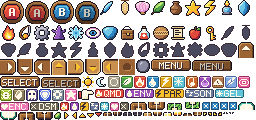
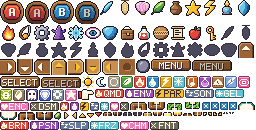
Inglês: siglas de status em inglês (BRN, PSN, PAR, SLP, FRZ, CHM, FNT)
As etiquetas -en entram no fim do atlas da interface: as peças em português
ficam com os mesmos pixels e as mesmas posições. iconeStatus escolhe pelo idioma.

Claude-Session: https://claude.ai/code/session_01SZRMGL5ucTqVdJSeQD5arp

diff --git a/tools/build-ui.ts b/tools/build-ui.ts
@@ -150,14 +150,19 @@ const larguraTxt = (gl: Glifo[], txt: string, espaco = 3) => [...txt].reduce((a,
 
 /* ------------------------------ atlas ------------------------------ */
 const pecas: { nome: string; img: Img }[] = [];
+/** peças empacotadas depois de todas as outras, em linhas novas no fim do atlas (ex.: siglas de status em inglês) */
+const pecasFim: { nome: string; img: Img }[] = [];
 const add = (nome: string, img: Img) => { if (pecas.some((p) => p.nome === nome)) erros.push('sprite duplicado: ' + nome); pecas.push({ nome, img }); };
+const addFim = (nome: string, img: Img) => { if ([...pecas, ...pecasFim].some((p) => p.nome === nome)) erros.push('sprite duplicado: ' + nome); pecasFim.push({ nome, img }); };
 function empacotar(largura = 256) {
-  const ord = [...pecas].sort((a, b) => b.img.h - a.img.h || b.img.w - a.img.w);
+  const porTamanho = (a: { img: Img }, b: { img: Img }) => b.img.h - a.img.h || b.img.w - a.img.w;
+  const principais = [...pecas].sort(porTamanho), fim = [...pecasFim].sort(porTamanho);
+  const ord = [...principais, ...fim];
   const pos: Record<string, [number, number, number, number]> = {};
   let x = 0, y = 0, hLinha = 0;
   for (const p of ord) {
     if (p.img.w > largura) erros.push(`sprite ${p.nome} mais largo que o atlas`);
-    if (x + p.img.w > largura) { x = 0; y += hLinha + 1; hLinha = 0; }
+    if (x + p.img.w > largura || (p === fim[0] && x > 0)) { x = 0; y += hLinha + 1; hLinha = 0; }
     pos[p.nome] = [x, y, p.img.w, p.img.h]; x += p.img.w + 1; hLinha = Math.max(hLinha, p.img.h);
   }
   const atlas = new Img(largura, y + hLinha);
@@ -219,11 +224,16 @@ for (const [id, s] of Object.entries(SIMBOLOS_STATUS)) {
   const simb = deGrade('status ' + id, s.linhas, cores);
   const mini = deGrade('status-mini', ['.YYYYYYY.', ...Array.from({ length: 7 }, () => 'YXXXXXXXY'), '.YYYYYYY.'], cores).colar(simb, 1, 1);
   add(`status-${id}-mini`, mini);
-  const wt = larguraTxt(f8.gl, s.sigla);
-  const et = new Img(9 + wt + 3, 9);
-  for (let y = 0; y < 9; y++) for (let x = 0; x < et.w; x++) { const canto = (x === 0 || x === et.w - 1) && (y === 0 || y === 8); if (!canto) et.set(x, y, hex(x === 0 || y === 0 || x === et.w - 1 || y === 8 ? cores.Y : cores.X)); }
-  et.colar(simb, 1, 1); escrever(et, f8.gl, s.sigla, 9, 1, hex(cores['#']));
-  add(`status-${id}`, et);
+  const etiqueta = (sigla: string) => {
+    const wt = larguraTxt(f8.gl, sigla);
+    const et = new Img(9 + wt + 3, 9);
+    for (let y = 0; y < 9; y++) for (let x = 0; x < et.w; x++) { const canto = (x === 0 || x === et.w - 1) && (y === 0 || y === 8); if (!canto) et.set(x, y, hex(x === 0 || y === 0 || x === et.w - 1 || y === 8 ? cores.Y : cores.X)); }
+    et.colar(simb, 1, 1); escrever(et, f8.gl, sigla, 9, 1, hex(cores['#']));
+    return et;
+  };
+  add(`status-${id}`, etiqueta(s.sigla));
+  // versão em inglês (docs/I18N.md): vai para o fim do atlas, sem mexer na posição das peças em português
+  if (s.siglaEn !== s.sigla) addFim(`status-${id}-en`, etiqueta(s.siglaEn));
 }
 
 // controles de toque: cada botão ganha a versão apertada (1 px mais baixa e mais escura)
@@ -302,4 +312,4 @@ if (process.argv.includes('--previa')) {
 }
 
 if (erros.length) { console.error('build-ui: ' + erros.length + ' erro(s)\n' + erros.slice(0, 60).join('\n')); process.exit(1); }
-console.log(`build-ui: ${pecas.length} sprites no atlas ${atlas.w}×${atlas.h}, ${Object.keys(f8.meta.glifos).length}+${Object.keys(f12.meta.glifos).length} glifos, ${MOLDURAS.length} molduras.`);
+console.log(`build-ui: ${pecas.length + pecasFim.length} sprites no atlas ${atlas.w}×${atlas.h}, ${Object.keys(f8.meta.glifos).length}+${Object.keys(f12.meta.glifos).length} glifos, ${MOLDURAS.length} molduras.`);

diff --git a/assets-src/ui/icones.ts b/assets-src/ui/icones.ts
@@ -32,15 +32,15 @@ export const SIMBOLOS_TIPO: Record<string, string[]> = {
   encanto: ['....##....', '....##....', '...####...', '##########', '.########.', '..######..', '..######..', '.###..###.', '.##....##.', '.#......#.'],
 };
 
-/** símbolos de status (7×7). cor = [fundo, borda, símbolo, detalhe] */
-export const SIMBOLOS_STATUS: Record<string, { sigla: string; cor: [string, string, string, string?]; linhas: string[] }> = {
-  queimado: { sigla: 'QMD', cor: ['#e0483c', '#7a1c28', '#fff8e7', '#f9c22b'], linhas: ['..#....', '..##...', '.###.#.', '.#####.', '##+###.', '#+++##.', '.###...'] },
-  envenenado: { sigla: 'ENV', cor: ['#9a4fb8', '#4a2068', '#fff8e7', '#d9f07a'], linhas: ['...#...', '..###..', '..###..', '.#####.', '.#+###.', '.#####.', '..###..'] },
-  paralisado: { sigla: 'PAR', cor: ['#f9c22b', '#8a5a10', '#3b2a35', '#3b2a35'], linhas: ['...##..', '..##...', '.##....', '#####..', '..##...', '.##....', '.#.....'] },
-  dormindo: { sigla: 'SON', cor: ['#6a7a9c', '#343e58', '#fff8e7', '#c8f0f4'], linhas: ['###....', '.#.....', '###.###', '.....#.', '....#..', '...###.', '.......'] },
-  congelado: { sigla: 'GEL', cor: ['#5fc4d8', '#1f5f76', '#fff8e7', '#fff8e7'], linhas: ['...#...', '.#.#.#.', '..###..', '#######', '..###..', '.#.#.#.', '...#...'] },
-  encantado: { sigla: 'ENC', cor: ['#f07ab8', '#8a2a5e', '#fff8e7', '#fff8e7'], linhas: ['.......', '.##.##.', '#######', '#######', '.#####.', '..###..', '...#...'] },
-  desmaiado: { sigla: 'DSM', cor: ['#6e6858', '#2e2a26', '#fff8e7', '#fff8e7'], linhas: ['.......', '#...#..', '.#.#...', '..#....', '.#.#...', '#...#..', '.......'] },
+/** símbolos de status (7×7). cor = [fundo, borda, símbolo, detalhe]; `siglaEn` = etiqueta em inglês (sprite `status-<id>-en`) */
+export const SIMBOLOS_STATUS: Record<string, { sigla: string; siglaEn: string; cor: [string, string, string, string?]; linhas: string[] }> = {
+  queimado: { sigla: 'QMD', siglaEn: 'BRN', cor: ['#e0483c', '#7a1c28', '#fff8e7', '#f9c22b'], linhas: ['..#....', '..##...', '.###.#.', '.#####.', '##+###.', '#+++##.', '.###...'] },
+  envenenado: { sigla: 'ENV', siglaEn: 'PSN', cor: ['#9a4fb8', '#4a2068', '#fff8e7', '#d9f07a'], linhas: ['...#...', '..###..', '..###..', '.#####.', '.#+###.', '.#####.', '..###..'] },
+  paralisado: { sigla: 'PAR', siglaEn: 'PAR', cor: ['#f9c22b', '#8a5a10', '#3b2a35', '#3b2a35'], linhas: ['...##..', '..##...', '.##....', '#####..', '..##...', '.##....', '.#.....'] },
+  dormindo: { sigla: 'SON', siglaEn: 'SLP', cor: ['#6a7a9c', '#343e58', '#fff8e7', '#c8f0f4'], linhas: ['###....', '.#.....', '###.###', '.....#.', '....#..', '...###.', '.......'] },
+  congelado: { sigla: 'GEL', siglaEn: 'FRZ', cor: ['#5fc4d8', '#1f5f76', '#fff8e7', '#fff8e7'], linhas: ['...#...', '.#.#.#.', '..###..', '#######', '..###..', '.#.#.#.', '...#...'] },
+  encantado: { sigla: 'ENC', siglaEn: 'CHM', cor: ['#f07ab8', '#8a2a5e', '#fff8e7', '#fff8e7'], linhas: ['.......', '.##.##.', '#######', '#######', '.#####.', '..###..', '...#...'] },
+  desmaiado: { sigla: 'DSM', siglaEn: 'FNT', cor: ['#6e6858', '#2e2a26', '#fff8e7', '#fff8e7'], linhas: ['.......', '#...#..', '.#.#...', '..#....', '.#.#...', '#...#..', '.......'] },
 };
 
 export const ARTES: Arte[] = [

diff --git a/src/ui/kit.ts b/src/ui/kit.ts
@@ -6,7 +6,7 @@ import kit from './gerado/kit.json';
 import type { Bolso, StatusId, TipoId } from '../core/tipos';
 import { precarregar } from '../core/assets';
 import { texto, em, type CorTexto, type Tamanho } from './fonte';
-import { t as traduz } from '../i18n';
+import { t as traduz, emIngles } from '../i18n';
 export { em } from './fonte';
 
 export type TipoMoldura = 'madeira' | 'cipo' | 'azulejo' | 'texto' | 'placa' | 'tinta' | 'botao' | 'botao-foco' | 'botao-ap' | 'trilho' | 'selecao' | 'bisel';
@@ -65,7 +65,11 @@ export const fatiaDe = (tipo: TipoMoldura) => MOL[tipo].fatia;
 export function cursorMao(): HTMLElement { const c = document.createElement('div'); c.className = 'cursor-mao'; c.append(spr('cursor')); return c; }
 export const seta = (dir: 'cima' | 'baixo' | 'esq' | 'dir', pisca = false) => spr('seta-' + dir, pisca ? 'pisca' : '');
 export const iconeTipo = (t: TipoId) => spr('tipo-' + t);
-export const iconeStatus = (s: StatusId | 'desmaiado', mini = false) => spr(`status-${s}${mini ? '-mini' : ''}`);
+/** etiqueta de status com a sigla (QMD… em português, BRN… em inglês) ou o mini 9×9, que não tem texto */
+export function iconeStatus(s: StatusId | 'desmaiado', mini = false): HTMLElement {
+  if (mini) return spr(`status-${s}-mini`);
+  return spr(emIngles() && SPR[`status-${s}-en`] ? `status-${s}-en` : `status-${s}`);
+}
 /** insígnia 1..16; `tem = false` mostra a silhueta */
 export const insignia = (n: number, tem = true) => spr(`insignia-${n}${tem ? '' : '-vazia'}`);
 export const iconeBolso = (b: Bolso) => spr('bolso-' + b);

diff --git a/src/ui/README.md b/src/ui/README.md
@@ -28,7 +28,7 @@ em(el, x, y)               // posiciona qualquer elemento em px nativos
 | `moldura(tipo, w, h, x?, y?)` | 9-slice: `madeira` (menus), `cipo`, `azulejo`, `texto` (caixa de fala), `placa` (nomes/avisos), `tinta` (painel escuro de status), `botao`, `botao-foco`, `botao-ap`, `trilho`, `selecao` (cantoneiras), `bisel`. Anexe o conteúdo direto no elemento. Bordas: 8 px (madeira, cipo, azulejo, texto, bisel), 4 px (placa, tinta, botões, selecao). |
 | `spr(nome)` / `trocarSpr(el, nome)` | sprite do atlas: `cursor`, `seta-cima/baixo/esq/dir`, `continuar`, `sol`, `lua`, `folha-cipo`, `tipo-<tipo>`, `status-<id>` e `status-<id>-mini`, `insignia-<1..16>` e `-vazia`, `bolso-<bolso>`, peças de toque. |
 | `iconeTipo(t)` · `chipTipo(t, largura)` | ícone 12×12 · etiqueta com nome na cor do tipo. `CORES_TIPO[t] = [base, escura, clara]`, `NOME_TIPO`. |
-| `iconeStatus(s, mini?)` | etiqueta com sigla (QMD ENV PAR SON GEL ENC DSM) ou mini 9×9. |
+| `iconeStatus(s, mini?)` | etiqueta com sigla (QMD ENV PAR SON GEL ENC DSM; em inglês BRN PSN PAR SLP FRZ CHM FNT, sprites `status-<id>-en`) ou mini 9×9. |
 | `insignia(n, tem)` · `fileiraInsignias(lista, porLinha, passo)` | 16×16; sem a insígnia mostra a silhueta. `NOME_INSIGNIA`. |
 | `iconeBolso(b)` | 16×16 (`itens remedios cuias pergaminhos frutos chave`), `NOME_BOLSO`. |
 | `barra('vida' \| 'exp', largura, aoAndar?)` | `{ el, definir(frac, animar), atualizar(dt), px }`. Vida: 6 px de altura, verde > 50%, amarelo > 20%, vermelho; anda 1 px por vez (chame `atualizar` no passo; `aoAndar(px, max)` serve para os números descerem junto). Exp: 4 px. |

diff --git a/docs/I18N.md b/docs/I18N.md
@@ -102,8 +102,9 @@ Cada entrada: `"texto PT": { "en": "", "ctx": "arquivo:linha · quem fala/campo"
 | `extras.json` | rádio, quiz, Gincana, Safári, Torre, trocas, revanches, ninhos, demo, créditos | 452 | 3.937 | 0 |
 | **total** | | **7.296** | **83.178** | **1.891** |
 
-Pendente de arte: as siglas de status (QMD, ENV, PAR, SON, GEL, ENC, DSM) são desenhadas no atlas da interface
-(`assets-src/ui/icones.ts`) e ainda aparecem em português; precisam de uma versão em inglês (BRN, PSN, PAR, SLP, FRZ, CHM,
-FNT) gerada por `tools/build-ui.ts` e escolhida em `iconeStatus` pelo idioma.
+Siglas de status: as etiquetas (QMD, ENV, PAR, SON, GEL, ENC, DSM) são desenhadas no atlas da interface a partir de
+`assets-src/ui/icones.ts` (`sigla` e `siglaEn`). `tools/build-ui.ts` gera também `status-<id>-en` (BRN, PSN, SLP, FRZ, CHM,
+FNT; PAR é igual) **no fim do atlas**, sem mexer na posição das peças em português, e `iconeStatus` (`src/ui/kit.ts`) usa a
+versão `-en` quando o idioma é inglês. Os minis 9×9 não têm texto e servem aos dois idiomas.
 
 (Números de quando este documento foi escrito; os atuais saem de `npm run i18n:faltando`.)
